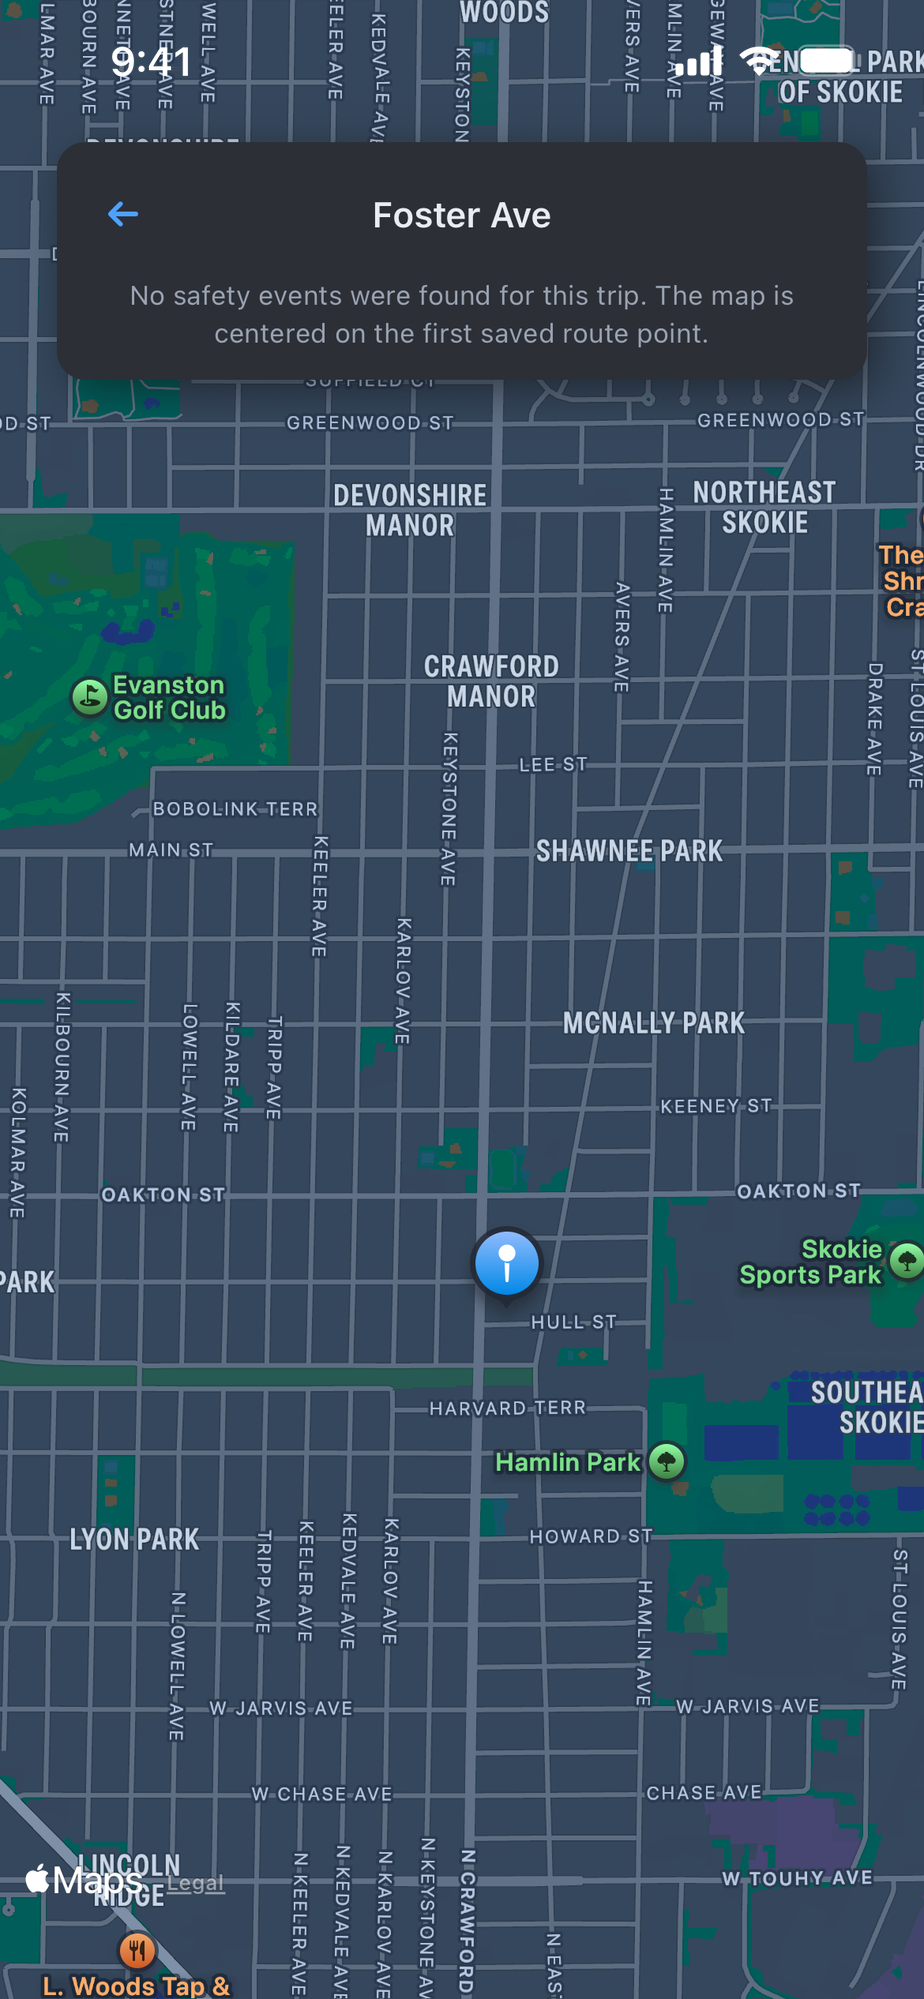
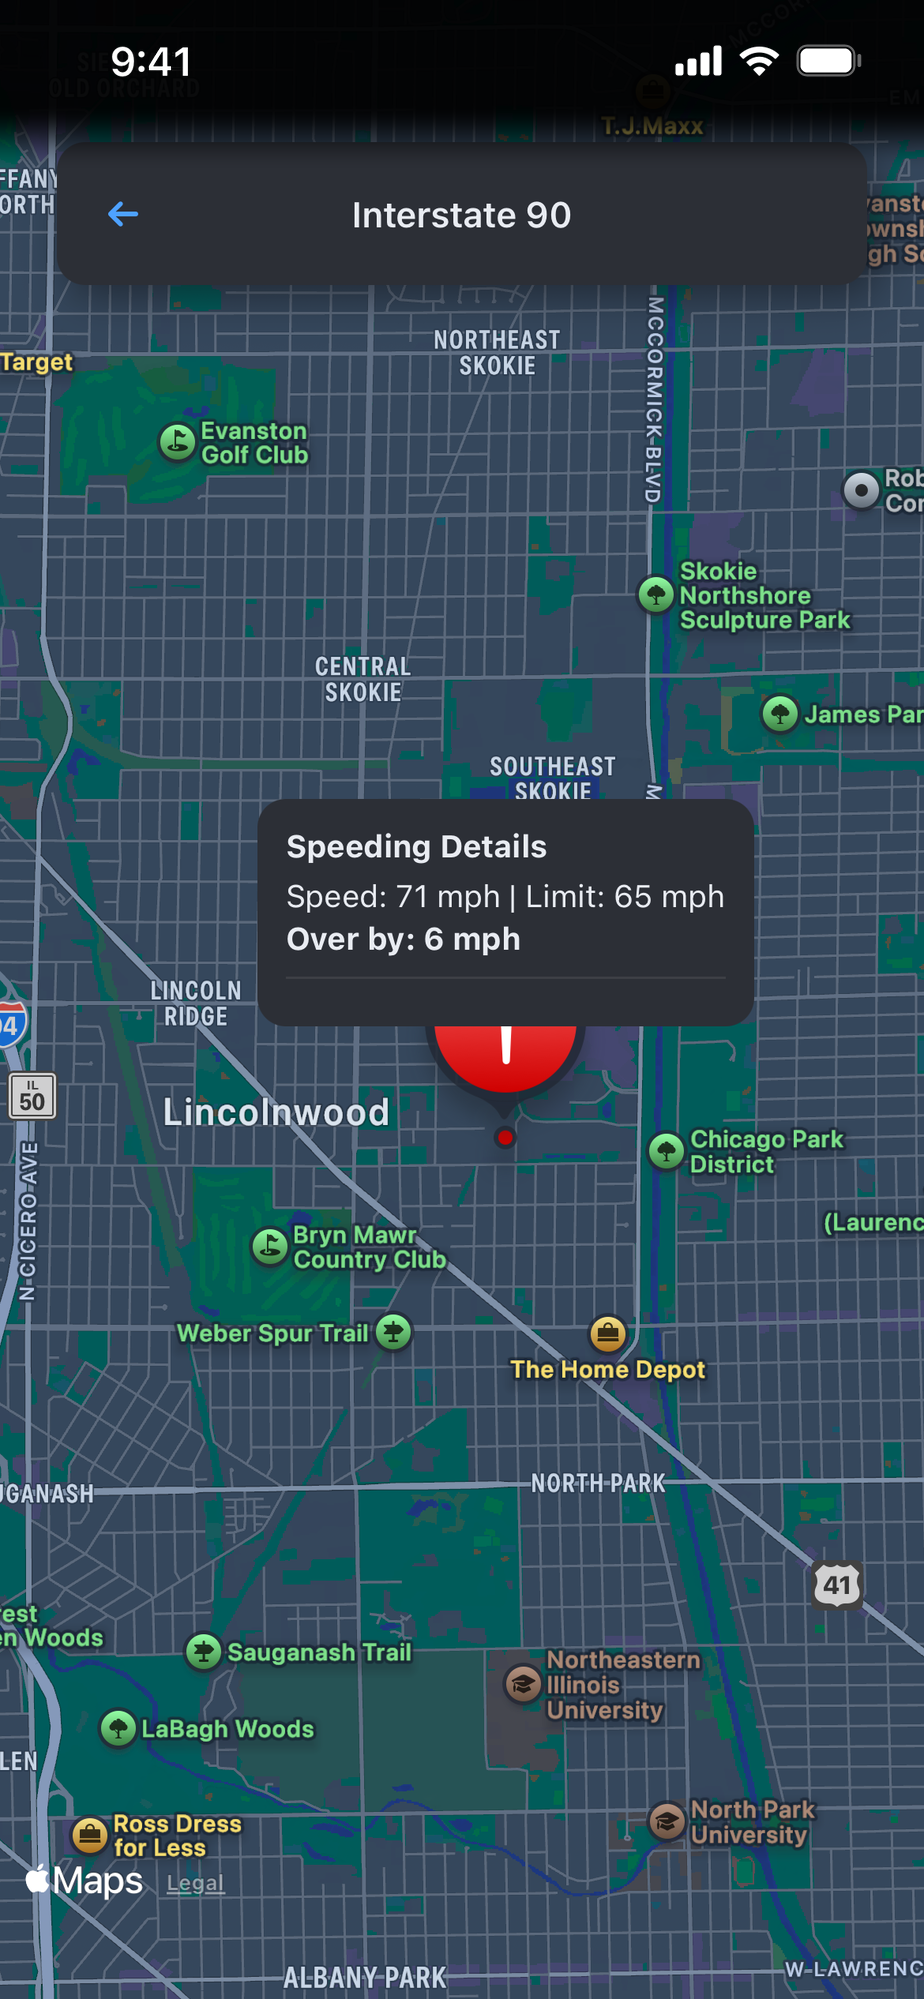
Swap in the new trips and trip-detail captures
The old trips shot was caught mid-load, and the trip map showed a drive
with nothing flagged, which left the promise about safety events landing
on an empty map. Both are replaced with captures that carry real content,
and the trip-map copy now describes the speeding event the new shot pins.

Both get the same composited iOS status bar as the rest of the set. The
map capture has place labels running directly under the bar, so it also
gets the darkening scrim Maps uses there, eased out so there is no seam.

diff --git a/content/site.ts b/content/site.ts
@@ -76,9 +76,9 @@ export const trips = {
     },
     {
       heading: "The route behind the score",
-      body: "Each trip keeps its own map with the points Wayborne recorded, and calls out clean drives where no safety events were found at all.",
+      body: "Each trip keeps its own map with the points Wayborne recorded, and pins every safety event to the spot it happened, down to your speed and the limit you passed.",
       image: "/images/app/trip-map.png",
-      alt: "Wayborne trip detail map for a drive on Foster Ave with no safety events found",
+      alt: "Wayborne trip detail map for a drive on Interstate 90, with a speeding event pinned to the route showing 71 mph in a 65 zone",
     },
   ],
 } as const;
